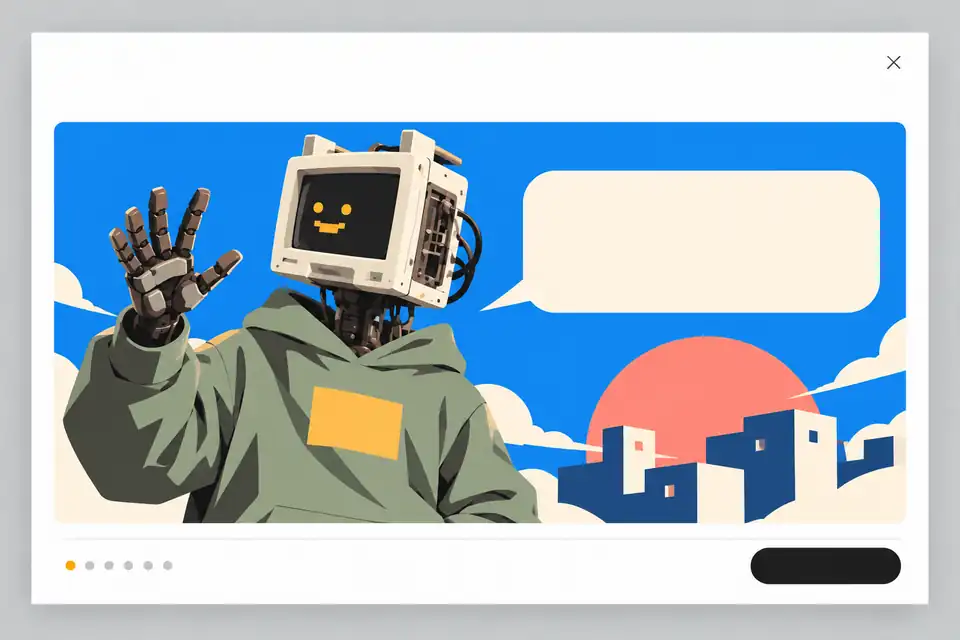
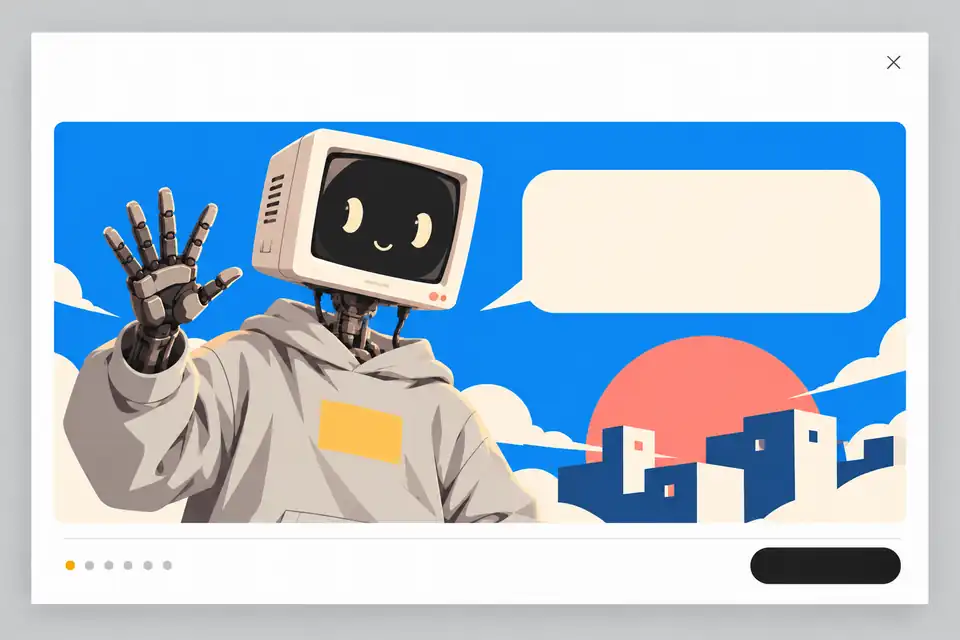
Refine Runtime welcome mascot with expressive ivory-screen character

diff --git a/src/components/hivemind/app/shared/HyperAgentsWelcome.jsx b/src/components/hivemind/app/shared/HyperAgentsWelcome.jsx
@@ -59,7 +59,7 @@ export default function HyperAgentsWelcome({ company }) {
   };
   useEffect(() => {
     if (!open || progress.step === 5) return;
-    const image = new Image(); image.src = `/assets/hyperagents-tour/${tourCards[progress.step + 1].id}.webp`;
+    const image = new Image(); image.src = `/assets/hyperagents-tour/${tourCards[progress.step + 1].id}.webp?v=runtime-v2`;
   }, [open, progress.step]);
   if (!open) return null;
   const card = tourCards[progress.step], [x,y,w,h] = card.crop;
@@ -70,7 +70,7 @@ export default function HyperAgentsWelcome({ company }) {
     <section className="hm-team-welcome" role="dialog" aria-modal="true" aria-labelledby="hm-team-welcome-title" aria-describedby="hm-team-welcome-description" dir={i18n.dir()} tabIndex={-1} ref={panel}>
       <header className="hm-team-welcome-header"><span>HIVEMIND <span className="hm-team-welcome-company">{companyName}</span></span><div><LangSwitcher compact/><button type="button" aria-label={t('actions.close', { ns:'common', defaultValue:'Close' })} onClick={close}>×</button></div></header>
       <div className="hm-team-welcome-heading" aria-live="polite"><h1 id="hm-team-welcome-title">{title}</h1>{![0,5].includes(progress.step) && <p id="hm-team-welcome-description">{body}</p>}</div>
-      <div className="hm-team-welcome-art" style={{ aspectRatio:`${w}/${h}` }} aria-hidden="true"><img src={`/assets/hyperagents-tour/${card.id}.webp`} alt="" decoding="async" style={{ width:`${1536/w*100}%`, height:`${1024/h*100}%`, left:`${-x/w*100}%`, top:`${-y/h*100}%` }}/>{[0,5].includes(progress.step) && <p id="hm-team-welcome-description" className={`hm-team-welcome-bubble hm-team-welcome-bubble-${progress.step}`}>{body}</p>}</div>
+      <div className="hm-team-welcome-art" style={{ aspectRatio:`${w}/${h}` }} aria-hidden="true"><img src={`/assets/hyperagents-tour/${card.id}.webp?v=runtime-v2`} alt="" decoding="async" style={{ width:`${1536/w*100}%`, height:`${1024/h*100}%`, left:`${-x/w*100}%`, top:`${-y/h*100}%` }}/>{[0,5].includes(progress.step) && <p id="hm-team-welcome-description" className={`hm-team-welcome-bubble hm-team-welcome-bubble-${progress.step}`}>{body}</p>}</div>
       {progress.step === 1 && <div className="hm-team-welcome-team">{team.slice(0,3).map(employee => <div key={employee.id}><strong>{employee.name}</strong><span>{employee.title || employee.job_title || employee.jobTitle || employee.role || employee.role_archetype || employee.roleArchetype || ''}</span></div>)}</div>}
       {progress.step === 3 && <div className="hm-team-welcome-labels">{englishTour.slice(12).map((label,index)=><span key={label}>{t(`statuses.${index}`, { defaultValue:label })}</span>)}</div>}
       <footer className="hm-team-welcome-footer"><span>{String(progress.step+1).padStart(2,'0')} / 06</span><nav aria-label={title}>{tourCards.map((item,index)=><button key={item.id} type="button" aria-label={`${index+1} / 6`} aria-current={progress.step===index?'step':undefined} onClick={()=>go(index)} />)}</nav><div className="hm-team-welcome-actions">{progress.step>0&&<button type="button" onClick={()=>go(progress.step-1)}>{t('actions.back', { ns:'common', defaultValue:'Back' })}</button>}<button type="button" onClick={close}>{t('actions.close', { ns:'common', defaultValue:'Close' })}</button><button className="hm-team-welcome-primary" type="button" onClick={()=>progress.step===5?close():go(progress.step+1)}>{t(progress.step === 5 ? 'actions.continue' : 'actions.next', { ns:'common', defaultValue:progress.step === 5 ? 'Continue' : 'Next' })} <span aria-hidden="true">→</span></button></div></footer>
